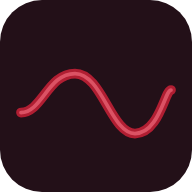
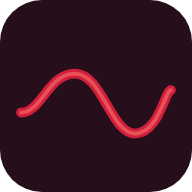
fix(web): propagate the warmed palette to non-css surfaces
The palette change reached everything styled through tokens, but six values
are baked where a CSS variable cannot reach. Updated each to the new palette:
manifest background/theme colours, the viewport theme-color meta, the bare
global-error focus ring, the R3F waveform material, and the brand SVG icons
(PNGs regenerated).

Also swaps the dark-surface components from accent-bright to coral. The token
kept its name but changed meaning: it was "the accent's voice on the night
canvas" and is now the gradient partner, and at 3.93:1 on hero-raised it no
longer clears AA for text. Coral is the correct successor at 6.18:1 there and
7.11:1 on the night band. The guard test now asserts coral on both dark
surfaces so the trap cannot recur.

Changed region(s): [[0.0625, 0.3438, 0.9375, 0.7188]]

diff --git a/apps/web/components/home/hero-waveform.tsx b/apps/web/components/home/hero-waveform.tsx
@@ -68,8 +68,8 @@ export function HeroWaveform({ className }: { className?: string }) {
     >
       <defs>
         <radialGradient id="hw-glow" cx="50%" cy="50%" r="60%">
-          <stop offset="0%" stopColor="var(--color-accent-bright)" stopOpacity="0.18" />
-          <stop offset="70%" stopColor="var(--color-accent-bright)" stopOpacity="0" />
+          <stop offset="0%" stopColor="var(--color-coral)" stopOpacity="0.18" />
+          <stop offset="70%" stopColor="var(--color-coral)" stopOpacity="0" />
         </radialGradient>
         <filter id="hw-soft" x="-20%" y="-40%" width="140%" height="180%">
           <feGaussianBlur stdDeviation="3" />
@@ -85,7 +85,7 @@ export function HeroWaveform({ className }: { className?: string }) {
           key={i}
           d={sinePath(e)}
           fill="none"
-          stroke="var(--color-accent-bright)"
+          stroke="var(--color-coral)"
           strokeWidth={i < 2 ? 1.5 : 1}
           strokeOpacity={e.opacity}
           strokeLinecap="round"
@@ -97,7 +97,7 @@ export function HeroWaveform({ className }: { className?: string }) {
       <path
         d={sinePath(LEAD)}
         fill="none"
-        stroke="var(--color-accent-bright)"
+        stroke="var(--color-coral)"
         strokeWidth="6"
         strokeOpacity="0.35"
         strokeLinecap="round"
@@ -107,7 +107,7 @@ export function HeroWaveform({ className }: { className?: string }) {
       <path
         d={sinePath(LEAD)}
         fill="none"
-        stroke="var(--color-accent-bright)"
+        stroke="var(--color-coral)"
         strokeWidth="2.25"
         strokeLinecap="round"
         strokeLinejoin="round"
@@ -115,13 +115,7 @@ export function HeroWaveform({ className }: { className?: string }) {
 
       {/* Particle nodes on the crest */}
       {nodes.map((n, i) => (
-        <circle
-          key={i}
-          cx={n.x}
-          cy={n.y}
-          r={i === 3 ? 3.5 : 2.25}
-          fill="var(--color-accent-bright)"
-        >
+        <circle key={i} cx={n.x} cy={n.y} r={i === 3 ? 3.5 : 2.25} fill="var(--color-coral)">
           {/* static poster: no animation here; the R3F scene animates */}
         </circle>
       ))}

diff --git a/apps/web/components/site-footer.tsx b/apps/web/components/site-footer.tsx
@@ -19,7 +19,7 @@ function FooterLink({ href, label }: { href: string; label: string }) {
     <li>
       <Link
         href={href}
-        className="rounded-sm text-sm text-ink-on-dark/75 transition-colors duration-150 hover:text-ink-on-dark focus-visible:outline-2 focus-visible:outline-offset-2 focus-visible:outline-accent-bright"
+        className="rounded-sm text-sm text-ink-on-dark/75 transition-colors duration-150 hover:text-ink-on-dark focus-visible:outline-2 focus-visible:outline-offset-2 focus-visible:outline-coral"
       >
         {label}
       </Link>
@@ -34,7 +34,7 @@ export function SiteFooter() {
         <div className="flex flex-col justify-between gap-10 md:flex-row">
           <div className="max-w-xs">
             <p className="font-display text-lg font-bold tracking-tight">
-              Toward<span className="text-accent-bright">PCC</span>
+              Toward<span className="text-coral">PCC</span>
             </p>
             <p className="mt-2 text-sm text-ink-on-dark/75">{site.tagline}</p>
           </div>

diff --git a/packages/ui/src/tokens.test.ts b/packages/ui/src/tokens.test.ts
@@ -59,11 +59,18 @@ describe("palette — non-text UI contrast (WCAG 1.4.11)", () => {
 });
 
 describe("palette — coral is dark-surface only", () => {
-  it("reads clearly on the dark bands", () => {
-    expect(contrastRatio(token("color-coral"), token("color-surface-hero"))).toBeGreaterThanOrEqual(
-      AA_TEXT,
-    );
-  });
+  /**
+   * Coral is the accent's voice on the dark bands (the role the old
+   * accent-bright played). It must clear AA text on BOTH dark surfaces —
+   * accent-bright is only 3.93:1 on hero-raised, which is why the dark-surface
+   * components use coral instead.
+   */
+  it.each(["color-surface-hero", "color-surface-hero-raised"])(
+    "reads clearly as text on %s",
+    (bg) => {
+      expect(contrastRatio(token("color-coral"), token(bg))).toBeGreaterThanOrEqual(AA_TEXT);
+    },
+  );
 
   /**
    * Coral is 2.55:1 on white. This documents that limitation as an invariant:

diff --git a/apps/web/app/global-error.tsx b/apps/web/app/global-error.tsx
@@ -9,8 +9,8 @@ export default function GlobalError({ reset }: { error: Error; reset: () => void
     <html lang="en">
       <body style={{ fontFamily: "system-ui, sans-serif" }}>
         {/* No Tailwind is available in this bare boundary, so restore the app's
-            crimson focus-visible idiom (accent #b01e32) inline. */}
-        <style>{`button:focus-visible{outline:2px solid #b01e32;outline-offset:2px}`}</style>
+            crimson focus-visible idiom (accent #cf1f3d) inline. */}
+        <style>{`button:focus-visible{outline:2px solid #cf1f3d;outline-offset:2px}`}</style>
         <main style={{ padding: "4rem 1.5rem" }}>
           <h1>{site.errors.serverError.heading}</h1>
           <p>{site.errors.serverError.body}</p>

diff --git a/apps/web/app/manifest.ts b/apps/web/app/manifest.ts
@@ -12,8 +12,10 @@ export default function manifest(): MetadataRoute.Manifest {
     scope: "/",
     display: "standalone",
     orientation: "portrait",
-    background_color: "#F7F4F3",
-    theme_color: "#231018",
+    // Mirror --color-surface-page / --color-surface-hero (tokens.css); the
+    // manifest is static JSON, so CSS variables cannot be used here.
+    background_color: "#FFFAF7",
+    theme_color: "#260E1A",
     categories: ["medical", "health", "productivity"],
     // SVG for crisp scaling in modern browsers, plus raster PNGs (192/512 +
     // maskable) for maximum Android / Lighthouse compatibility. PNGs are

diff --git a/apps/web/app/layout.tsx b/apps/web/app/layout.tsx
@@ -19,8 +19,10 @@ export const metadata: Metadata = {
   appleWebApp: { capable: true, title: site.name, statusBarStyle: "default" },
 };
 
+// Mirrors --color-surface-hero (packages/ui/src/tokens.css). A CSS variable
+// cannot be used here — the browser reads this before any stylesheet loads.
 export const viewport = {
-  themeColor: "#231018",
+  themeColor: "#260e1a",
 };
 
 export default function RootLayout({ children }: { children: React.ReactNode }) {

diff --git a/apps/web/app/page.tsx b/apps/web/app/page.tsx
@@ -48,7 +48,7 @@ const bento = [
 
 const ctaBase =
   "inline-flex min-h-11 items-center justify-center rounded-md px-5 text-[15px] font-semibold transition-colors duration-150 " +
-  "focus-visible:outline-2 focus-visible:outline-offset-2 focus-visible:outline-accent-bright active:translate-y-px";
+  "focus-visible:outline-2 focus-visible:outline-offset-2 focus-visible:outline-coral active:translate-y-px";
 
 export default function HomePage() {
   return (

diff --git a/apps/web/components/home/waveform-canvas.tsx b/apps/web/components/home/waveform-canvas.tsx
@@ -17,7 +17,9 @@ import * as THREE from "three";
  * paused off-screen, and never shown under reduced motion.
  */
 
-const ROSE = new THREE.Color("#ff7d8e");
+// Mirrors --color-coral (packages/ui/src/tokens.css); a WebGL material needs a
+// literal, not a CSS variable. 7.11:1 on the night band.
+const ROSE = new THREE.Color("#ff7a6b");
 const SAMPLES = 128;
 const SPAN = 11; // world width
 const LINES = 5;

diff --git a/apps/web/components/home/waveform-edge.tsx b/apps/web/components/home/waveform-edge.tsx
@@ -38,7 +38,7 @@ export function WaveformEdge({ className }: { className?: string }) {
       <path
         d={d}
         fill="none"
-        stroke="var(--color-accent-bright)"
+        stroke="var(--color-coral)"
         strokeOpacity="0.4"
         strokeWidth="2"
         strokeLinecap="round"
